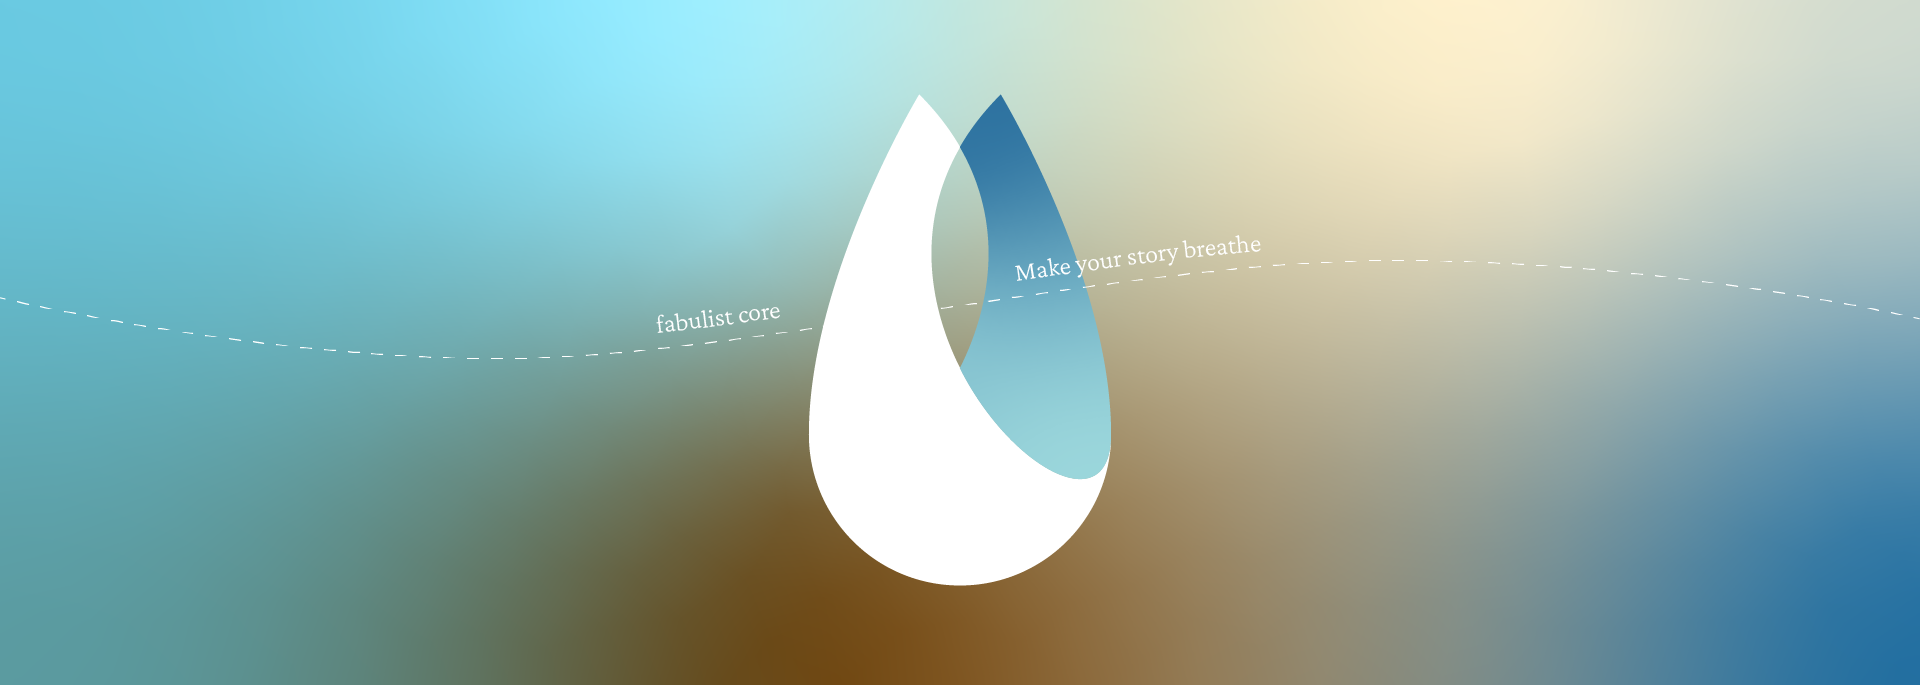
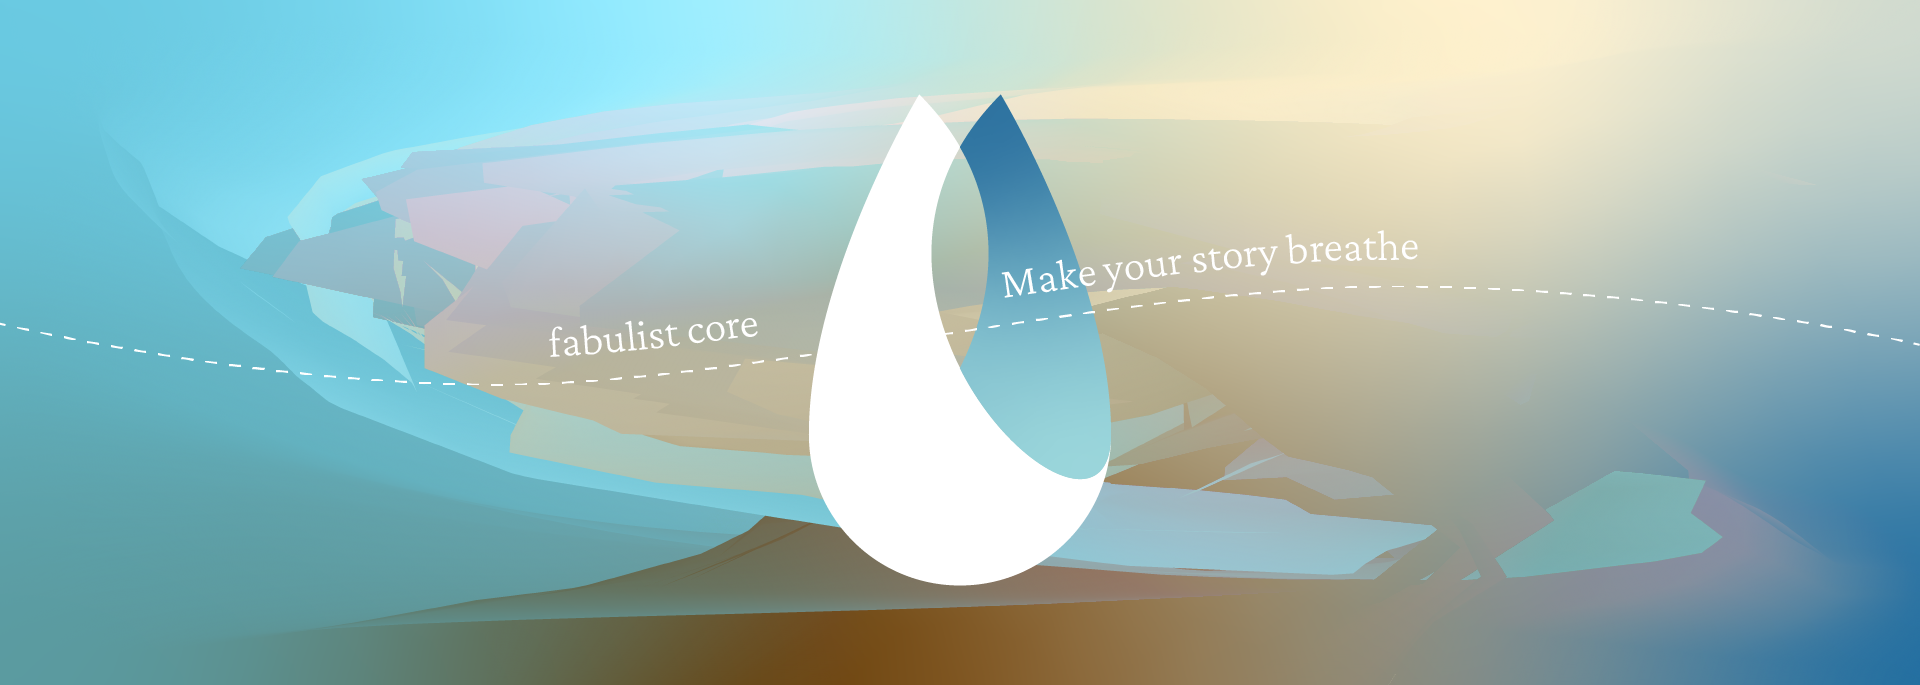
chore: updated the README

Changed region(s): [[0.0938, 0.1226, 0.75, 0.9197], [0.7812, 0.6745, 0.9688, 0.9197], [0.4688, 0.3372, 0.75, 0.5212]]

diff --git a/README.md b/README.md
@@ -1,4 +1,60 @@
-# ✒ Fabulist Core
+![Fabulist core banner](./assets/readme-banner.png)
 
-## About
-This library is a story builder that uses the simplest model for defining a branching narrative. It aims to introduce a more approachable and flexible interface to creating the decision trees for your story. Instead of mapping each branch to a choice, it instead uses a context to determine the following node to the story.
+## Fabulist Core
+![Build](https://github.com/daverencordero/fabulist-core/actions/workflows/build.yml/badge.svg)
+
+### About
+This is a builder that uses a context-based decision tree model to create a branching narrative. A plethora of the currently existing API interfaces used for designing novels with user interactions *(e.g. Visual Novels or Text-based adventures)* are plagued with complexity and a steep learning curve. Due to this, the unique art medium is hardly used and is driven to obscurity. Fabulist aims to manifest the potential of branching narratives by introducing a new standard and making their creation facile to the masses.
+
+### Contents
+The library exports the main story structure as well as the structures made to build it. This allows developers to immediately integrate or iterate the concept immediately. In addition, an engine that uses the structure to create a story runtime is also included for debugging as well as future projects related to Fabulist.
+
+### Roadmap
+The core will serve as a foundation of an ecosystem of applications planned to bring fabulist to everyone. As such, it is tantamount that it's entirely flexible and has all the utilities needed to create a narrative. Future iterations of this library aims to have transpilation to widely used languages (JavaScript, Java, and Python) as well as a markup language preprocessor for industry-use.
+
+### Design
+The fabulist story model revolves around a tree structure. Each node of the tree can either be a `dialogue` or a `part`.
+```
+└── story node/
+    ├── dialogue
+    └── part
+```
+1. **Dialogue** - the dialogue type is where most of the important data is stored. Things such as the conversant's name, what they said, and the response options, they're all found inside the dialogue structure.
+2. **Part** - the part type is simply a container that groups dialogues together. This introduces the concept of story partitions such as Scenes, Parts, Acts, or Chapters.
+
+A fabulist story is basically a collection of these two types of nodes. But you're probably wondering, **how are they linked together?** Traditional branching narrative methods made it so that each response would have a corresponding dialogue linked to it. While this is effective, it is far from being optimal and usually results into little flexibility for future changes. This is why other API interfaces compensate for the lack of flexibility with a bloat of functions to fill the gap.
+
+Fabulist is different.
+
+Instead of a direct link, fabulist uses context. **Context** is a metadata attached to the story that all the nodes can access. The context is what dictates the flow of the narrative as well as the linkages of the nodes. It can be any form of data that can be used as a condition. For example and clarification, refer to the pseudocode below.
+
+```
+context = { are_friends = true }
+
+dialogue_1 = {
+    get_next () {
+        if (context.are_friends = true) return dialogue_2
+        else return dialogue_3
+    }
+}
+```
+
+In the statement, we defined a context with a property named `are_friends` that has a value of `true`. We then used this context as a reference upon defining `dialogue_1`. In its `get_next()` function, we have a condition that tests whether the `are_friends` property is true or not. Depending on the result, different dialogues are returned. On implementation, the `get_next()` function would be called upon progressing through the dialogue.
+
+This type of linking facilitates a more natural way of creating a narrative. Instead of linking nodes to a response, we instead base it on a value we stored from a context. 
+
+But how do we alter the context? The Context will be altered upon entering a new story node. Each story node could have a `change_context()` function that fires whenever it is in the active progression of the narrative. See the example below.
+
+```
+context = { are_friends = false }
+
+dialogue {
+    change_context() {
+        context.are_friends = true
+    }
+}
+```
+
+The application for this is limitless! Using dating simulators as an example (Only because they're a predominant part of the Visual Novel space), affection points of potential lovers could be stored inside the context as incrementing values. This would mean that each dialogue could update the context whence necessary resulting in a much more organic flow! 
+
+And, that's it. Nothing more but an incredibly simple, scalable, and approachable interface.
